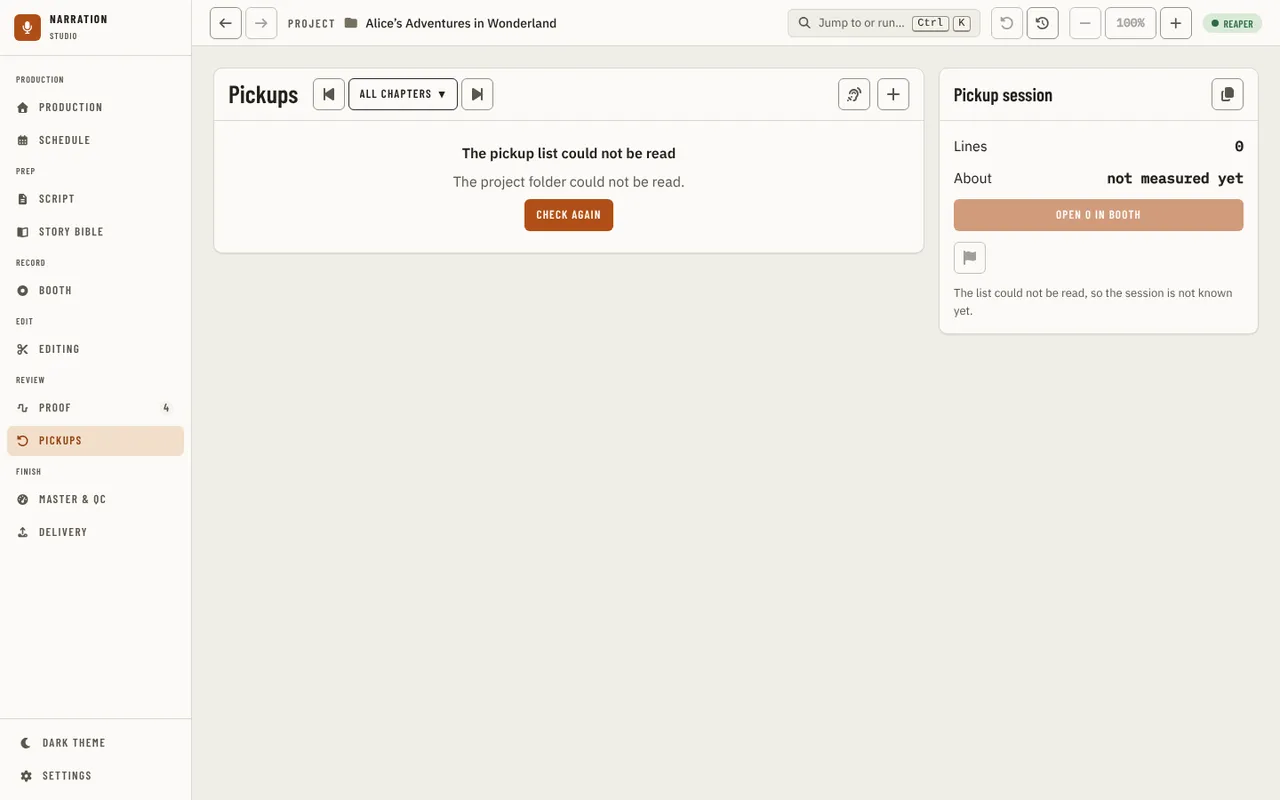
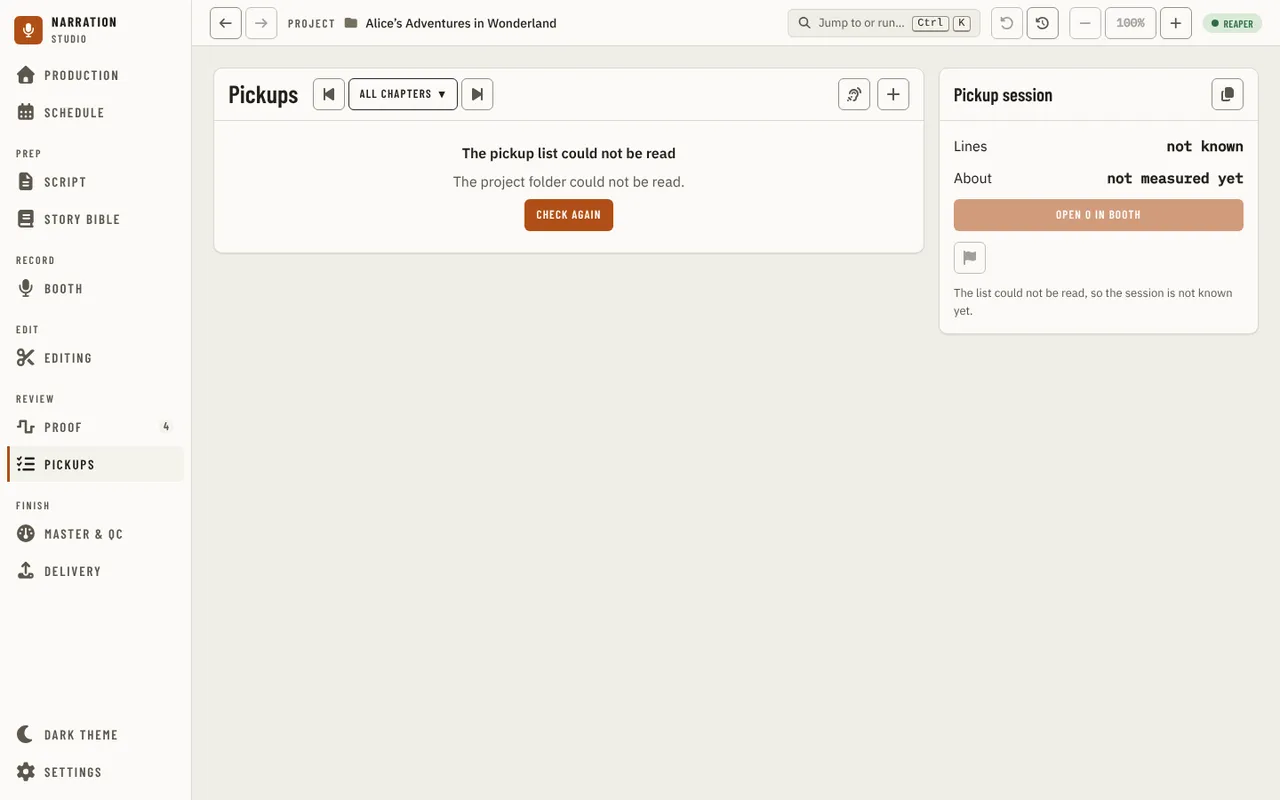
fix(ui): explain off buttons on Pickups, fix the markers message, return from the Booth
Refs #1768

Claude-Session: https://claude.ai/code/session_01DfRtjt4aK1398p3z9EUf5t

diff --git a/apps/ui/src/components/pickups/list/SessionPanel.tsx b/apps/ui/src/components/pickups/list/SessionPanel.tsx
@@ -1,4 +1,4 @@
-import { useRef, useState } from 'react';
+import { useId, useRef, useState } from 'react';
 import type { PickupItem } from '../../../api/contracts/pickups';
 import type { Measured } from '../../../api/schemas/base';
 import { useOverlay } from '../../../overlay/OverlayProvider';
@@ -45,6 +45,17 @@ export function SessionPanel({
   const count = picked.length;
 
   const markersReason = !markers.available ? markers.message || `${dawName} cannot add markers now.` : count === 0 ? 'No lines in the session.' : undefined;
+  /* Why the session is empty, said for what is true: nothing listed, nothing readable, all recorded, or all left out. */
+  const emptyReason = unreadable
+    ? 'The list could not be read, so the session is not known yet.'
+    : pickups.length === 0
+      ? 'There are no pickups to include yet.'
+      : pickups.every((pickup) => pickup.done)
+        ? 'Every line in view is recorded.'
+        : 'No lines in the session: tick a line to include it.';
+  /* A button that is off stays focusable and names its reason, so the keyboard reaches the why as well as the sighted. */
+  const emptyId = useId();
+  const markersId = useId();
 
   const copy = async () => {
     if (picked.length === 0) {
@@ -79,24 +90,40 @@ export function SessionPanel({
       <div className="flex flex-col gap-3">
         <div className="flex items-center justify-between">
           <span>Lines</span>
-          <b className="font-['IBM_Plex_Mono',ui-monospace,monospace]">{count}</b>
+          <b className="font-['IBM_Plex_Mono',ui-monospace,monospace]">{unreadable ? 'not known' : count}</b>
         </div>
         <div className="flex items-center justify-between">
           <span>About</span>
           <b className="font-['IBM_Plex_Mono',ui-monospace,monospace]">{minutes.ok ? `${minutes.value} min` : NOT_MEASURED}</b>
         </div>
-        <Button disabled={count === 0} onClick={() => onOpenInBooth(picked)}>
+        <Button
+          aria-disabled={count === 0 || undefined}
+          aria-describedby={count === 0 ? emptyId : undefined}
+          className="aria-disabled:cursor-not-allowed aria-disabled:opacity-55"
+          onClick={() => count > 0 && onOpenInBooth(picked)}
+        >
           Open {count} in Booth
         </Button>
         <div>
-          <IconButton action="addMarker" label={`Add ${count} as markers in ${dawName}`} disabledReason={markersReason} pending={adding} onClick={addMarkers} />
+          <IconButton
+            action="addMarker"
+            label={`Add ${count} as markers in ${dawName}`}
+            disabledReason={markersReason}
+            aria-describedby={!markers.available ? markersId : count === 0 ? emptyId : undefined}
+            pending={adding}
+            onClick={addMarkers}
+          />
         </div>
         {count === 0 && (
-          <p className="text-[0.8125rem] text-[var(--text-muted)]">
-            {unreadable ? 'The list could not be read, so the session is not known yet.' : 'No lines in the session: tick a line to include it.'}
+          <p id={emptyId} className="text-[0.8125rem] text-[var(--text-muted)]">
+            {emptyReason}
           </p>
         )}
-        {!markers.available && <p className="text-[0.8125rem] text-[var(--text-muted)]">{markersReason}</p>}
+        {!markers.available && (
+          <p id={markersId} className="text-[0.8125rem] text-[var(--text-muted)]">
+            {markersReason}
+          </p>
+        )}
       </div>
     </Panel>
   );

diff --git a/apps/ui/src/components/pickups/PickupsPage.test.tsx b/apps/ui/src/components/pickups/PickupsPage.test.tsx
@@ -9,6 +9,7 @@ import { createMockApi } from '../../api/mockApi';
 import { CommandRouter } from '../../input/router';
 import { OverlayHost } from '../../overlay/OverlayHost';
 import type { NarrationApi } from '../../types';
+import { PortOverrides } from '../../ports/usePort';
 import { TooltipProvider } from '../primitives/Tooltip';
 import * as checkRecordings from '../recordingcheck/openCheckRecordings';
 import { onPickupListChanged } from './pickupListChanged';
@@ -301,5 +302,60 @@ describe('narrator-walkthrough-fixes-2', () => {
     await userEvent.setup().click(again);
     await waitFor(() => expect(screen.getByRole('button', { name: 'Check again' }).getAttribute('aria-busy')).toBe('true'));
     finish();
+  });
+});
+
+describe('adding-lines-as-markers-says-what-happened', () => {
+  const markersDaw = (changed: boolean) =>
+    ({ addPickupMarkers: vi.fn().mockResolvedValue({ ok: true, changed, message: 'Imported 2 pickups.', undoSteps: changed ? 1 : 0 }) }) as never;
+  const renderWith = (changed: boolean) => {
+    const api = createMockApi({ pickupsList: () => Promise.resolve(LIST) });
+    vi.spyOn(api, 'manuscriptChapters').mockResolvedValue(
+      CHAPTERS.map((c, index) => ({ id: c.id, title: c.name, index, wordCount: 100, status: 'recording' })) as never,
+    );
+    render(
+      <MemoryRouter>
+        <ApiProvider api={api}>
+          <PortOverrides clients={{ daw: markersDaw(changed) }}>
+            <TooltipProvider>
+              <CommandRouter>
+                <PickupsPage hasManuscript goTo={vi.fn()} goToScript={vi.fn()} />
+              </CommandRouter>
+              <OverlayHost />
+            </TooltipProvider>
+          </PortOverrides>
+        </ApiProvider>
+      </MemoryRouter>,
+    );
+  };
+
+  it('says markers were added, not that pickups were imported', async () => {
+    renderWith(true);
+    await userEvent.setup().click(await screen.findByRole('button', { name: /^Add \d+ as markers in / }));
+    expect(await screen.findByText(/^Pickup markers for \d+ lines are in .+\.$/)).toBeTruthy();
+    expect(screen.queryByText(/Imported/)).toBeNull();
+  });
+
+  it('says the markers were already there when nothing changed', async () => {
+    renderWith(false);
+    await userEvent.setup().click(await screen.findByRole('button', { name: /^Add \d+ as markers in / }));
+    expect(await screen.findByText(/^Those markers were already in .+\.$/)).toBeTruthy();
+  });
+});
+
+describe('coming-back-from-the-booth', () => {
+  it('puts the selection and focus back on the line that was opened', async () => {
+    const first = renderPage();
+    const user = userEvent.setup();
+    const rows = await screen.findAllByRole('row', { selected: false });
+    const line = rows.filter((row) => row.hasAttribute('data-pk'))[1];
+    line.focus();
+    await user.keyboard('{Enter}');
+    const id = line.getAttribute('data-pk');
+    expect(first.goTo).toHaveBeenCalled();
+    cleanup();
+    renderPage();
+    await waitFor(() => expect(document.activeElement?.getAttribute('data-pk')).toBe(id));
+    expect(document.activeElement?.getAttribute('aria-selected')).toBe('true');
   });
 });

diff --git a/apps/ui/src/components/pickups/PickupsPage.tsx b/apps/ui/src/components/pickups/PickupsPage.tsx
@@ -14,6 +14,7 @@ import { openCheckRecordings } from '../recordingcheck/openCheckRecordings';
 import { NeedManuscript } from '../layout/NeedManuscript';
 import { ALL_SCOPE, inScope, lineText, reasonSentence, type ChapterRef } from './list/pickupRows';
 import { announcePickupListChanged } from './pickupListChanged';
+import { pickupToReturnTo, rememberPickupLeft } from './pickupReturn';
 import { PickupsTable, type PickupsRead, type RemoveUndo } from './list/PickupsTable';
 import { SessionPanel } from './list/SessionPanel';
 
@@ -66,6 +67,8 @@ export function PickupsPage({
   const [read, setRead] = useState<PickupsRead>({ kind: 'loading' });
   const [scopeChoice, setScope] = useState(ALL_SCOPE);
   const [current, setCurrent] = useState('');
+  /* Back from the Booth lands on the line that was opened (the table selects it once the list is there). */
+  const [returnTo] = useState(pickupToReturnTo);
   const [seconds, setSeconds] = useState<Measured<number>>(LOADING);
   /* Answers come back in any order and can be late: each request takes a number as it starts, and an answer older than one already shown is dropped. */
   const started = useRef(0);
@@ -191,24 +194,33 @@ export function PickupsPage({
     await changing(Promise.resolve(answer));
   };
 
+  const dawName = !dawKind ? 'the DAW' : dawKind === 'none' ? 'the built-in recorder' : dawKind;
   const addMarkers = async (picked: PickupItem[]) => {
     const placed = picked.filter((p): p is PickupItem & { at: number } => p.at !== null);
     const result = await daw.addPickupMarkers(placed.map((p) => ({ ref: p.id, start: p.at, tag: p.type, note: lineText(p) })));
     if (!result.ok) throw new Error(result.message);
-    overlay.toast(result.message);
+    const lines = placed.length === 1 ? '1 line' : `${placed.length} lines`;
+    overlay.toast(
+      result.changed
+        ? `Pickup ${placed.length === 1 ? 'marker' : 'markers'} for ${lines} ${placed.length === 1 ? 'is' : 'are'} in ${dawName}.`
+        : `Those markers were already in ${dawName}.`,
+    );
     await changing(pickupsApi.pickupsList());
   };
 
   if (!hasManuscript) return <NeedManuscript title="Pickups" onImport={() => goTo('/')} />;
 
-  const openInBooth = (picked: PickupItem[]) => goTo(boothSessionPath(picked));
-  const dawName = !dawKind ? 'the DAW' : dawKind === 'none' ? 'the built-in recorder' : dawKind;
+  const openInBooth = (picked: PickupItem[]) => {
+    if (picked.length === 1) rememberPickupLeft(picked[0].id);
+    goTo(boothSessionPath(picked));
+  };
 
   return (
     <CommandScope kind="page">
       <div className="grid items-start gap-4 min-[1180px]:grid-cols-[minmax(0,1fr)_360px]">
         <PickupsTable
           pickups={list.pickups}
+          returnTo={returnTo}
           read={read}
           checking={checking}
           onReload={() => {

diff --git a/apps/ui/src/components/pickups/list/PickupsTable.tsx b/apps/ui/src/components/pickups/list/PickupsTable.tsx
@@ -1,4 +1,4 @@
-import { useRef, useState, type KeyboardEvent, type ReactNode } from 'react';
+import { useEffect, useId, useRef, useState, type KeyboardEvent, type ReactNode } from 'react';
 import type { PickupItem } from '../../../api/contracts/pickups';
 import { useOverlay } from '../../../overlay/OverlayProvider';
 import type { OverlayService } from '../../../overlay/overlayService';
@@ -49,6 +49,7 @@ async function said(overlay: OverlayService, run: () => unknown): Promise<void> 
  */
 export function PickupsTable({
   pickups,
+  returnTo = null,
   read,
   onReload,
   checking = false,
@@ -70,6 +71,8 @@ export function PickupsTable({
 }: {
   /** Every pickup the host lists. */
   pickups: readonly PickupItem[];
+  /** The line to select and focus once it is listed: the one the narrator opened in the Booth and came back from. */
+  returnTo?: string | null;
   read: PickupsRead;
   /** Reads the list again now (Check again). */
   onReload: () => void;
@@ -100,6 +103,15 @@ export function PickupsTable({
   const body = useRef<HTMLDivElement>(null);
   const [selected, setSelected] = useState<string | null>(null);
   const [adding, setAdding] = useState(false);
+
+  /* Back from the Booth: select the line the narrator left from and put focus on it, once, when it first appears. */
+  const restored = useRef(false);
+  useEffect(() => {
+    if (restored.current || !returnTo || !pickups.some((pickup) => pickup.id === returnTo)) return;
+    restored.current = true;
+    setSelected(returnTo);
+    body.current?.querySelector<HTMLTableRowElement>(`tr[${PICKUP_ROW}="${CSS.escape(returnTo)}"]`)?.focus();
+  }, [returnTo, pickups]);
 
   const list = inScope(pickups, scope);
   const groups = groupByChapter(list, chapters);
@@ -159,6 +171,7 @@ export function PickupsTable({
   };
 
   const checkReason = daw.available ? undefined : daw.message || 'The DAW is not answering.';
+  const checkReasonId = useId();
 
   return (
     <section aria-label="Pickups" className={`${PANEL_FRAME_CLASS} min-w-0`}>
@@ -173,8 +186,14 @@ export function PickupsTable({
             label="Check recordings"
             aria-haspopup="dialog"
             disabledReason={checkReason}
+            aria-describedby={checkReason ? checkReasonId : undefined}
             onClick={() => onCheck([...chaptersToCheck])}
           />
+          {checkReason && (
+            <span id={checkReasonId} className="sr-only">
+              {checkReason}
+            </span>
+          )}
           <Popover label="Add a pickup by hand" open={adding} onOpenChange={setAdding} trigger={<IconButton action="add" label="Add a pickup by hand" />}>
             {addTo ? (
               <AddPickup chapterId={addTo.id} chapterName={addTo.name} onAdd={onAdd} onDone={() => setAdding(false)} />

diff --git a/apps/ui/src/components/pickups/list/SessionPanel.test.tsx b/apps/ui/src/components/pickups/list/SessionPanel.test.tsx
@@ -54,12 +54,31 @@ describe('SessionPanel', () => {
     expect(screen.getByText('About').nextElementSibling?.textContent).toBe('not measured yet');
   });
 
-  it('Open N in Booth is disabled at zero', async () => {
+  it('Open N in Booth is off at zero but stays focusable and names why', async () => {
     const { onOpenInBooth, user } = setup({ pickups: ALL_DONE });
     const open = screen.getByRole('button', { name: 'Open 0 in Booth' });
-    expect(open.hasAttribute('disabled')).toBe(true);
+    expect(open.hasAttribute('disabled')).toBe(false);
+    expect(open.getAttribute('aria-disabled')).toBe('true');
+    open.focus();
+    expect(document.activeElement).toBe(open);
+    expect(open.getAttribute('aria-describedby')).toBe(screen.getByText('Every line in view is recorded.').id);
     await user.click(open);
+    await user.keyboard('{Enter}');
     expect(onOpenInBooth).not.toHaveBeenCalled();
+  });
+
+  it.each([
+    ['no pickups at all', [], false, 'There are no pickups to include yet.'],
+    ['every line left out', MIXED.slice(0, 2).map((p) => ({ ...p, included: false })), false, 'No lines in the session: tick a line to include it.'],
+    ['a list that could not be read', [], true, 'The list could not be read, so the session is not known yet.'],
+  ])('says what is true when the session is empty: %s', (_name, pickups, unreadable, sentence) => {
+    setup({ pickups, unreadable });
+    expect(screen.getByText(sentence)).toBeTruthy();
+  });
+
+  it('shows the count as not known, not 0, when the list could not be read', () => {
+    setup({ pickups: [], unreadable: true });
+    expect(screen.getByText('Lines').nextElementSibling?.textContent).toBe('not known');
   });
 
   it('adds the lines as markers and names the DAW', async () => {
@@ -79,7 +98,7 @@ describe('SessionPanel', () => {
     const { onAddMarkers, user } = setup({ markers: { available: false, message: 'Markers are turned off for REAPER in Settings.' } });
     const icon = screen.getByRole('button', { name: /as markers in REAPER/ });
     expect(icon.getAttribute('aria-disabled')).toBe('true');
-    expect(screen.getByText('Markers are turned off for REAPER in Settings.')).toBeTruthy();
+    expect(icon.getAttribute('aria-describedby')).toBe(screen.getByText('Markers are turned off for REAPER in Settings.').id);
     await user.click(icon);
     expect(onAddMarkers).not.toHaveBeenCalled();
   });

diff --git a/apps/ui/src/components/pickups/pickupReturn.ts b/apps/ui/src/components/pickups/pickupReturn.ts
@@ -1,0 +1,18 @@
+/**
+ * The pickup line the narrator opened in the Booth, kept for the way back: the browser's Back button returns to the same history
+ * entry, and that entry is the only one that gets the line selected again, so a later visit through the sidebar starts clean.
+ */
+let left: { entry: number; id: string } | null = null;
+
+/** The router writes the position in the session's history into `history.state` on every push, replace and pop. */
+const entry = (): number => (window.history.state as { idx?: number } | null)?.idx ?? 0;
+
+/** Called as a single line is opened in the Booth from this page. */
+export function rememberPickupLeft(id: string): void {
+  left = { entry: entry(), id };
+}
+
+/** The line to select and focus now, when this visit is the return to the entry the narrator left from. */
+export function pickupToReturnTo(): string | null {
+  return left !== null && left.entry === entry() ? left.id : null;
+}

diff --git a/apps/ui/src/components/pickups/list/PickupsTable.test.tsx b/apps/ui/src/components/pickups/list/PickupsTable.test.tsx
@@ -213,6 +213,8 @@ describe('PickupsTable', () => {
     const { onCheck, user } = setup({ daw: { available: false, message: 'REAPER is not open.' } });
     const check = screen.getByRole('button', { name: 'Check recordings' });
     expect(check.getAttribute('aria-disabled')).toBe('true');
+    // The reason is on the button's own description, so a screen reader that lands on it hears why, not just "dimmed".
+    expect(check.getAttribute('aria-describedby')).toBe(screen.getByText('REAPER is not open.').id);
     await user.click(check);
     expect(onCheck).not.toHaveBeenCalled();
   });

diff --git a/docs/guides/using-the-app/pickups.md b/docs/guides/using-the-app/pickups.md
@@ -36,7 +36,8 @@ manuscript heads them. The lines are grouped by chapter, each group with how man
 In a narrow window the table scrolls sideways, with a shadow on the edge that has more to see.
 
 Right-click a line for the same actions, **Open this chapter in Script**, and **Go to the note in Proof** for a line that
-came from a note. Up and Down move between lines.
+came from a note. Up and Down move between lines. When you come back from the Booth with the browser's Back button after
+opening one line, that line is selected again and has the focus.
 
 A line is recorded once its pickup marker in the DAW says so: the marker is the record of what is done, and marking a
 line recorded renames its marker. While the DAW is not answering, the app keeps the change and the line reads
@@ -61,7 +62,8 @@ while it cannot read, and whenever you return to the window.
 ![Pickups - the list could not be read: the reason and Check again](../../images/ui/pickups-unreadable.webp)
 
 **Check recordings** opens the recording check on the chapters whose check is not current, so their gaps can join the
-list. It is off, with the reason, when the DAW is not reachable. **Add a pickup by hand** asks for the time in the
+list. It is off when the DAW is not reachable. An off button stays in the Tab order: focus it and the reason appears, and
+a screen reader reads it as the button's description. **Add a pickup by hand** asks for the time in the
 recording (`05:12.0`, or `5:12`; seconds run 00 to 59) and the line to re-record (one line, up to 500 characters), and
 adds it to the chapter in view (with every chapter shown, the last chapter you stepped to, or the first). A time or
 line the app cannot use is said under its box, which is marked as wrong until you change it, and in a short message; the
@@ -76,14 +78,15 @@ for this chapter**. If a chapter you were viewing is no longer in the manuscript
 
 ## Pickup session
 
-The **Pickup session** panel beside the list counts the open lines in view that are not left out: **Lines**, and
+The **Pickup session** panel beside the list counts the open lines in view that are not left out: **Lines** (**not known** while the list cannot be read), and
 **About** how many minutes they take to record, from the recordings' measured times (it says when there is no measured
 figure). From there:
 
 - **Open N in Booth** opens the Booth on those lines, starting with the first line's chapter (see
-  [A pickup session](booth.md#a-pickup-session)).
-- **Add N as markers in** the DAW puts a pickup marker at each line's place. It is off, with the reason, when the DAW
-  cannot add markers.
+  [A pickup session](booth.md#a-pickup-session)). With no lines in the session it is off, and the line under the
+  buttons says why: there are no pickups yet, every line in view is recorded, or every open line is left out.
+- **Add N as markers in** the DAW puts a pickup marker at each line's place and says "Pickup markers for N lines are in
+  REAPER." (or that those markers were already there). It is off, with the reason, when the DAW cannot add markers.
 - **Copy the pickup script** copies the lines, one per line as "chapter · time: line", to paste elsewhere. If the window
   does not allow the clipboard, it says so.
 
